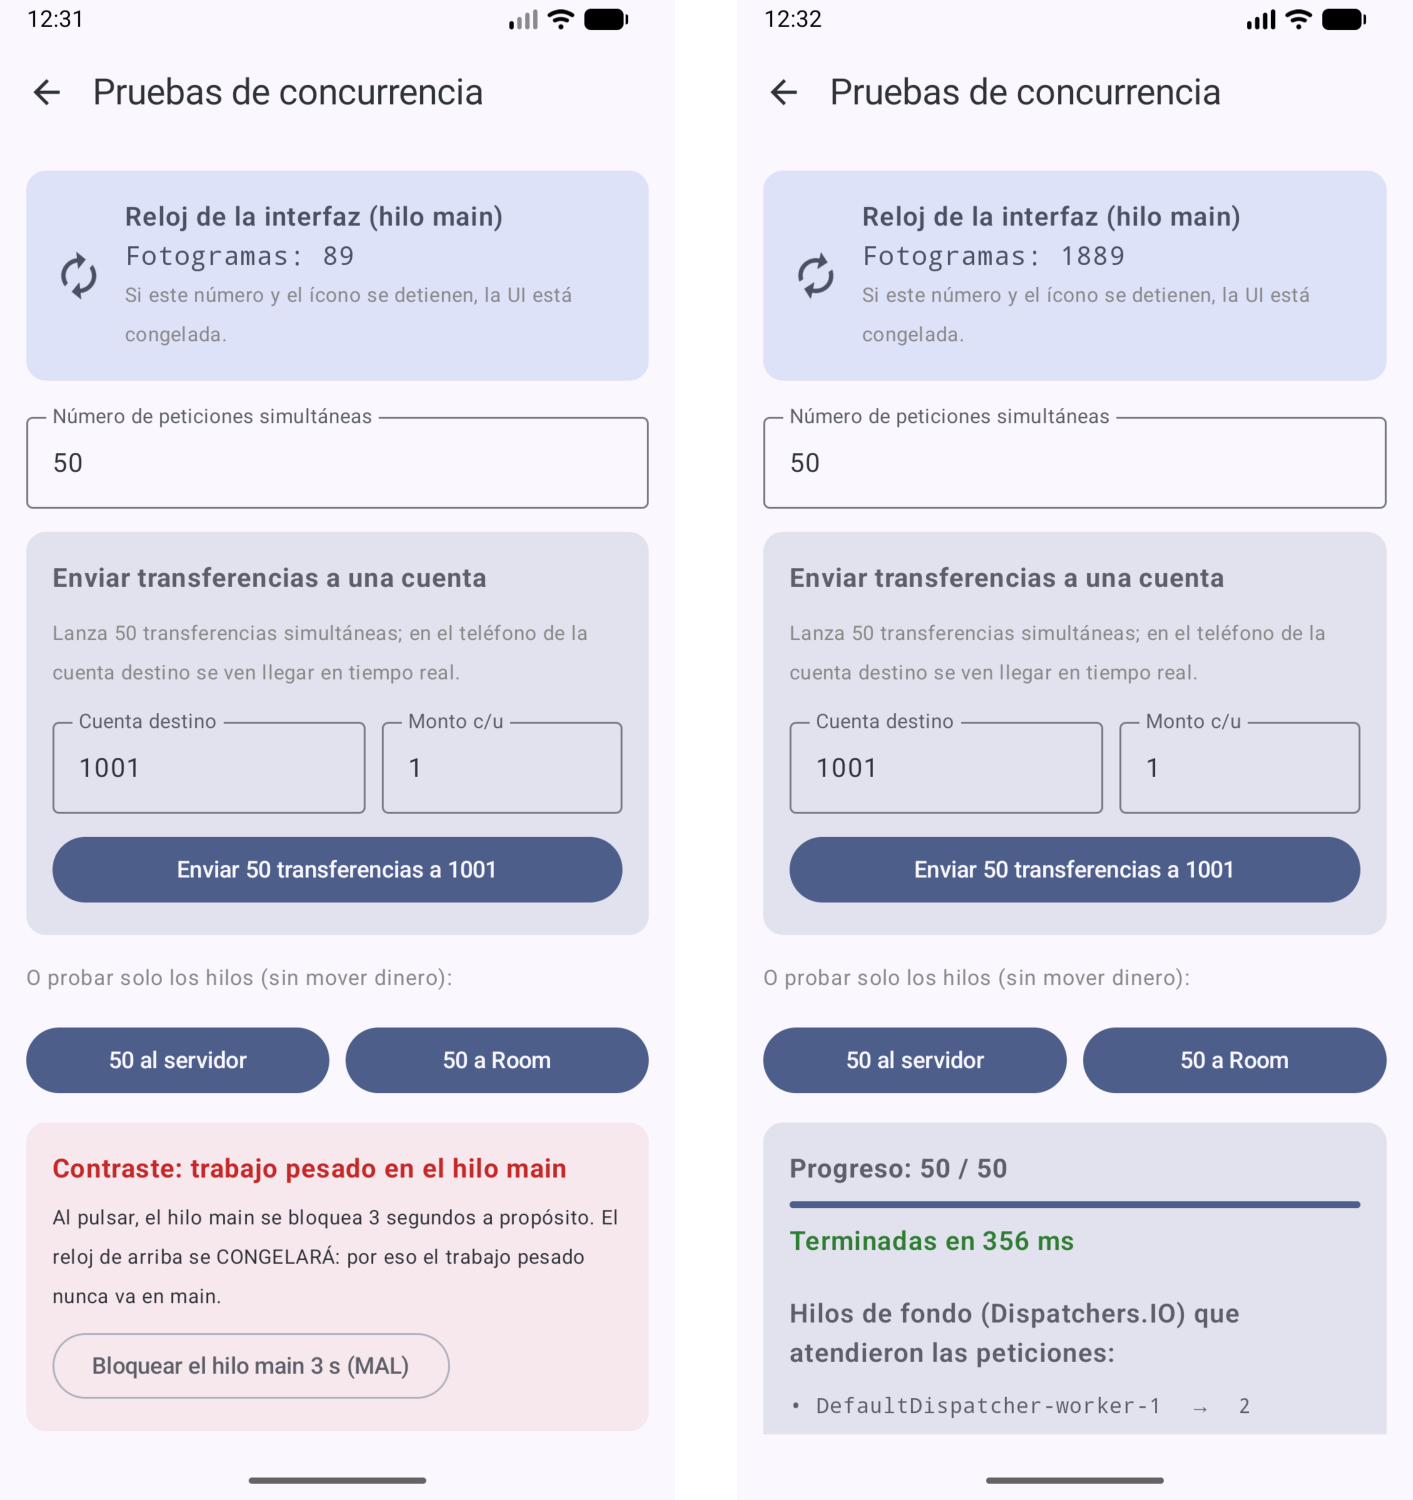
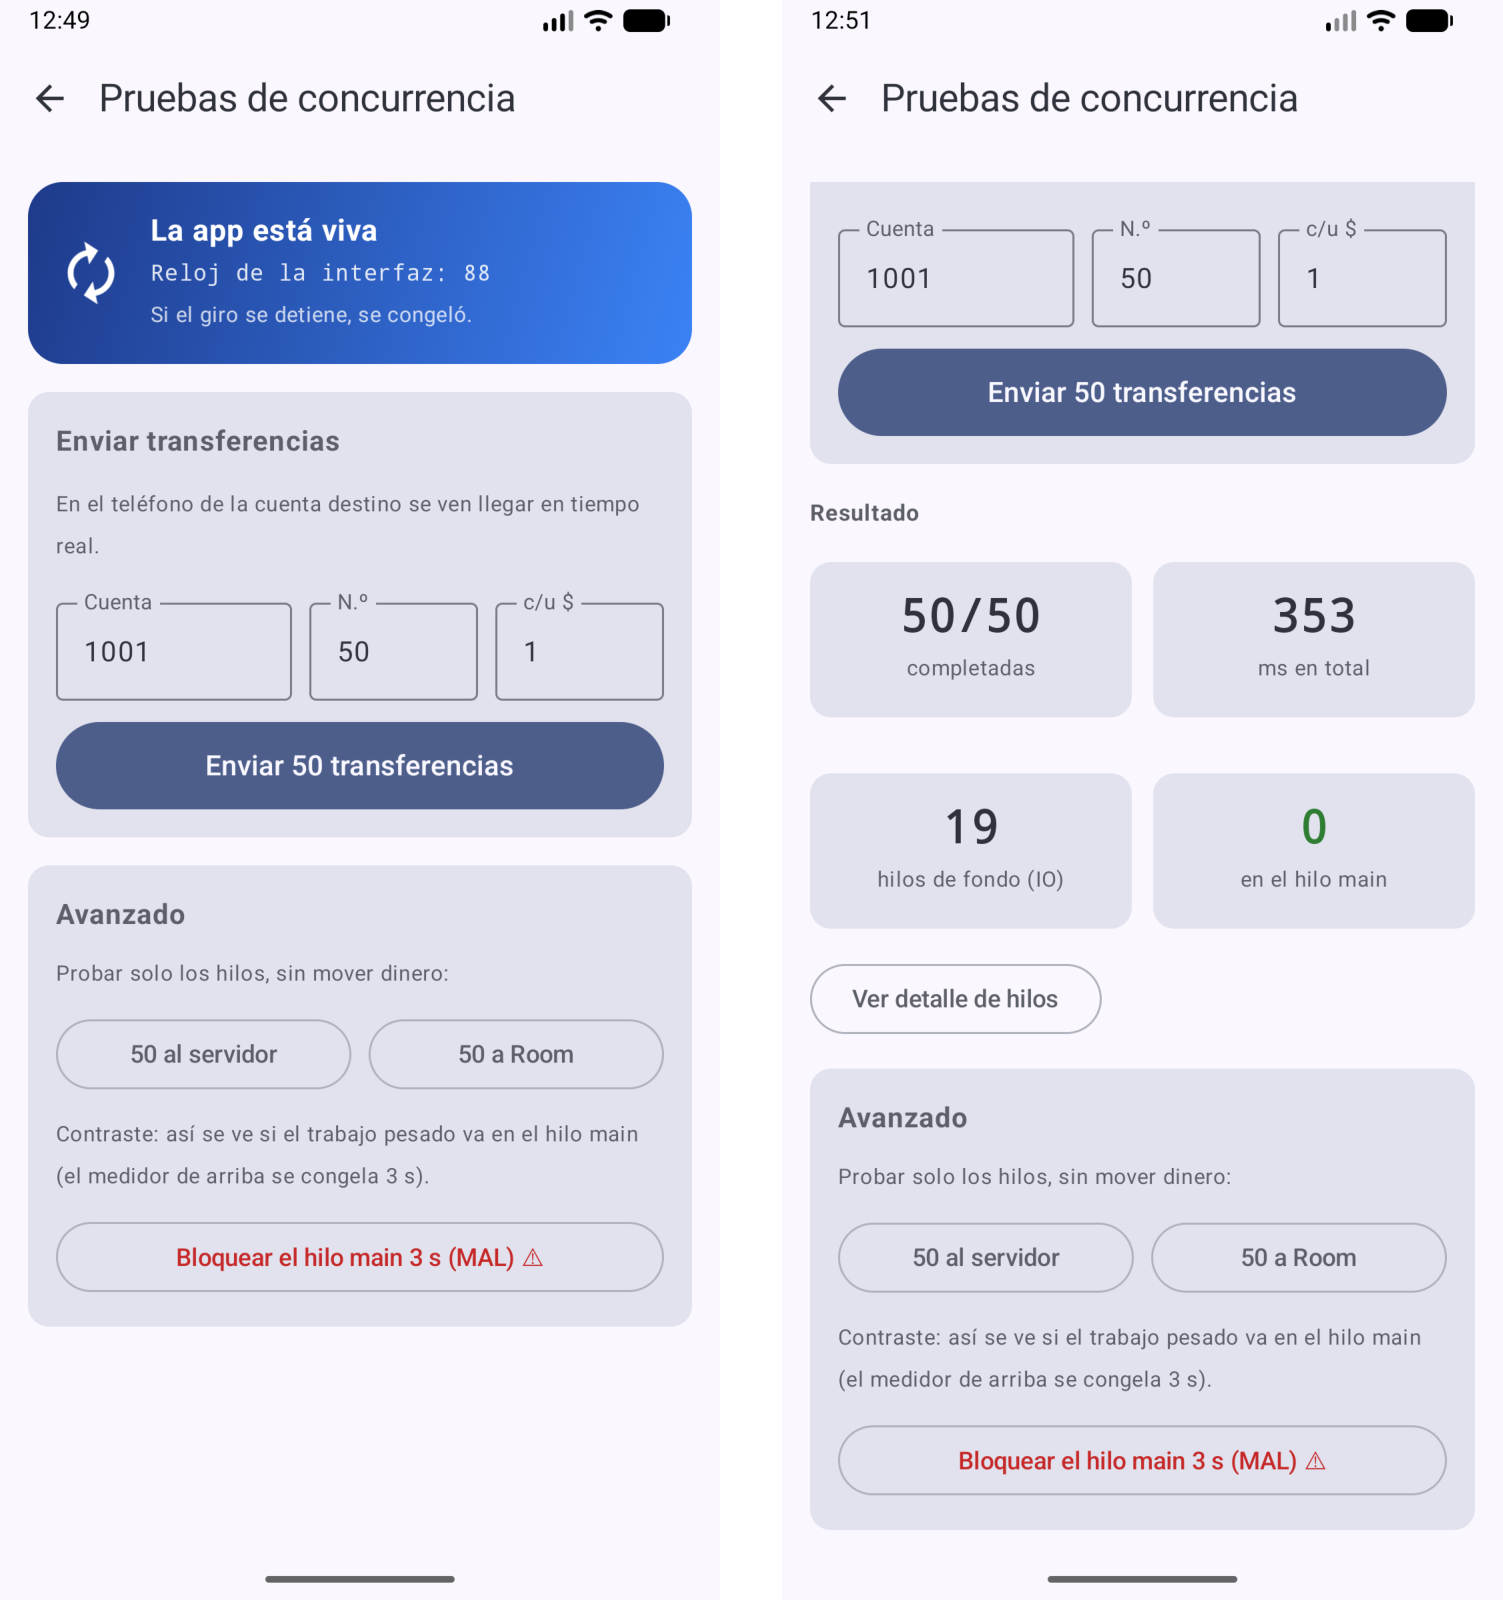
Fase 7: rediseno del panel de laboratorio (medidor + recuadros de resultado)
- Medidor 'La app esta viva' (icono girando + contador de fotogramas)
- Envio de transferencias con cuenta/N/monto y boton grande
- Resultado en 4 recuadros: completadas, ms, hilos IO, 0 en main
- Detalle de hilos plegable y seccion Avanzado (servidor/Room/bloquear main)

diff --git a/app/src/main/java/com/example/carriel_cuenca_billeteradistribuida/ui/pruebas/PruebasConcurrenciaScreen.kt b/app/src/main/java/com/example/carriel_cuenca_billeteradistribuida/ui/pruebas/PruebasConcurrenciaScreen.kt
@@ -7,6 +7,7 @@ import androidx.compose.animation.core.animateFloat
 import androidx.compose.animation.core.infiniteRepeatable
 import androidx.compose.animation.core.rememberInfiniteTransition
 import androidx.compose.animation.core.tween
+import androidx.compose.foundation.background
 import androidx.compose.foundation.layout.Arrangement
 import androidx.compose.foundation.layout.Column
 import androidx.compose.foundation.layout.Row
@@ -18,18 +19,18 @@ import androidx.compose.foundation.layout.padding
 import androidx.compose.foundation.layout.size
 import androidx.compose.foundation.layout.width
 import androidx.compose.foundation.rememberScrollState
+import androidx.compose.foundation.shape.RoundedCornerShape
 import androidx.compose.foundation.verticalScroll
 import androidx.compose.material.icons.Icons
 import androidx.compose.material.icons.automirrored.filled.ArrowBack
 import androidx.compose.material.icons.filled.Autorenew
 import androidx.compose.material3.Button
+import androidx.compose.material3.ButtonDefaults
 import androidx.compose.material3.Card
 import androidx.compose.material3.CardDefaults
-import androidx.compose.material3.CircularProgressIndicator
 import androidx.compose.material3.ExperimentalMaterial3Api
 import androidx.compose.material3.Icon
 import androidx.compose.material3.IconButton
-import androidx.compose.material3.LinearProgressIndicator
 import androidx.compose.material3.MaterialTheme
 import androidx.compose.material3.OutlinedButton
 import androidx.compose.material3.OutlinedTextField
@@ -45,7 +46,9 @@ import androidx.compose.runtime.remember
 import androidx.compose.runtime.setValue
 import androidx.compose.ui.Alignment
 import androidx.compose.ui.Modifier
+import androidx.compose.ui.draw.clip
 import androidx.compose.ui.draw.rotate
+import androidx.compose.ui.graphics.Brush
 import androidx.compose.ui.graphics.Color
 import androidx.compose.ui.text.font.FontFamily
 import androidx.compose.ui.text.font.FontWeight
@@ -54,10 +57,12 @@ import androidx.compose.ui.unit.sp
 import androidx.lifecycle.compose.collectAsStateWithLifecycle
 import com.example.carriel_cuenca_billeteradistribuida.model.TipoPrueba
 import com.example.carriel_cuenca_billeteradistribuida.ui.BilleteraViewModel
+import com.example.carriel_cuenca_billeteradistribuida.ui.theme.AzulTarjeta
+import com.example.carriel_cuenca_billeteradistribuida.ui.theme.AzulTarjetaClaro
 import com.example.carriel_cuenca_billeteradistribuida.ui.theme.RojoEgreso
 import com.example.carriel_cuenca_billeteradistribuida.ui.theme.VerdeIngreso
 
-// PANTALLA DE PRUEBAS DE CONCURRENCIA: demuestra en vivo el manejo de hilos.
+// PANEL DE PRUEBAS DE CONCURRENCIA (diseño B: medidor arriba + resultado en recuadros).
 // Comparte el MISMO BilleteraViewModel que el dashboard (misma cuenta y repositorio).
 @OptIn(ExperimentalMaterial3Api::class)
 @Composable
@@ -67,24 +72,20 @@ fun PruebasConcurrenciaScreen(
     onActividad: () -> Unit
 ) {
     val pruebas by viewModel.pruebas.collectAsStateWithLifecycle()
-    // Campo de texto con el número de peticiones (por defecto 50).
     var numero by remember { mutableStateOf("50") }
     val n = numero.toIntOrNull() ?: 0
-    // Para la demo de dos pantallas: a qué cuenta se transfiere y cuánto.
     var destino by remember { mutableStateOf("1001") }
     var montoTransf by remember { mutableStateOf("1") }
-    val montoValido = montoTransf.replace(',', '.').toDoubleOrNull() ?: 0.0
+    val monto = montoTransf.replace(',', '.').toDoubleOrNull() ?: 0.0
 
-    // RELOJ DE UI: se incrementa en CADA fotograma (~60 por segundo) en el hilo main.
-    // Si el hilo main se bloquea, este número se CONGELA: es la prueba visual de "cero ANR".
+    // RELOJ DE UI: sube en cada fotograma (~60/s) en el hilo main. Si el main se bloquea, se congela.
     var tic by remember { mutableIntStateOf(0) }
     LaunchedEffect(Unit) {
         while (true) {
-            androidx.compose.runtime.withFrameMillis { }   // Espera al siguiente fotograma (no bloquea).
+            androidx.compose.runtime.withFrameMillis { }
             tic++
         }
     }
-    // Ícono que gira sin parar; también se congela si el hilo main se bloquea.
     val transicion = rememberInfiniteTransition(label = "giro")
     val angulo by transicion.animateFloat(
         initialValue = 0f, targetValue = 360f,
@@ -108,128 +109,145 @@ fun PruebasConcurrenciaScreen(
                 .padding(innerPadding)
                 .padding(16.dp)
                 .verticalScroll(rememberScrollState()),
-            verticalArrangement = Arrangement.spacedBy(14.dp)
+            verticalArrangement = Arrangement.spacedBy(16.dp)
         ) {
-            // ---------- RELOJ DE UI (latido) ----------
-            Card(colors = CardDefaults.cardColors(containerColor = MaterialTheme.colorScheme.secondaryContainer)) {
-                Row(
-                    modifier = Modifier.padding(16.dp).fillMaxWidth(),
-                    verticalAlignment = Alignment.CenterVertically
-                ) {
-                    Icon(Icons.Filled.Autorenew, contentDescription = null, modifier = Modifier.size(32.dp).rotate(angulo))
-                    Spacer(Modifier.width(12.dp))
-                    Column {
-                        Text("Reloj de la interfaz (hilo main)", fontWeight = FontWeight.SemiBold)
-                        Text("Fotogramas: $tic", fontFamily = FontFamily.Monospace)
-                        Text("Si este número y el ícono se detienen, la UI está congelada.", fontSize = 12.sp, color = Color.Gray)
-                    }
+
+            // ---------- MEDIDOR "LA APP ESTÁ VIVA" ----------
+            Row(
+                modifier = Modifier
+                    .fillMaxWidth()
+                    .clip(RoundedCornerShape(20.dp))
+                    .background(Brush.linearGradient(listOf(AzulTarjeta, AzulTarjetaClaro)))
+                    .padding(16.dp),
+                verticalAlignment = Alignment.CenterVertically
+            ) {
+                // Ícono que gira: si se detiene, la UI está congelada.
+                Icon(
+                    Icons.Filled.Autorenew, contentDescription = null, tint = Color.White,
+                    modifier = Modifier.size(40.dp).rotate(angulo)
+                )
+                Spacer(Modifier.width(14.dp))
+                Column {
+                    Text("La app está viva", color = Color.White, fontWeight = FontWeight.Bold, fontSize = 17.sp)
+                    Text("Reloj de la interfaz: $tic", color = Color.White.copy(alpha = 0.85f),
+                        fontFamily = FontFamily.Monospace, fontSize = 13.sp)
+                    Text("Si el giro se detiene, se congeló.", color = Color.White.copy(alpha = 0.75f), fontSize = 12.sp)
                 }
             }
 
-            // ---------- CONTROL ----------
-            OutlinedTextField(
-                value = numero,
-                onValueChange = { numero = it.filter { c -> c.isDigit() }.take(3); onActividad() },
-                label = { Text("Número de peticiones simultáneas") },
-                singleLine = true,
-                modifier = Modifier.fillMaxWidth()
-            )
-
-            // ---------- DEMO DE DOS PANTALLAS: enviar N transferencias a una cuenta ----------
+            // ---------- ENVIAR TRANSFERENCIAS (demo de dos pantallas) ----------
             Card {
-                Column(modifier = Modifier.padding(16.dp), verticalArrangement = Arrangement.spacedBy(10.dp)) {
-                    Text("Enviar transferencias a una cuenta", fontWeight = FontWeight.Bold)
-                    Text("Lanza $n transferencias simultáneas; en el teléfono de la cuenta destino se ven llegar en tiempo real.", fontSize = 12.sp, color = Color.Gray)
+                Column(modifier = Modifier.padding(16.dp), verticalArrangement = Arrangement.spacedBy(12.dp)) {
+                    Text("Enviar transferencias", fontWeight = FontWeight.Bold, fontSize = 16.sp)
+                    Text("En el teléfono de la cuenta destino se ven llegar en tiempo real.", fontSize = 12.sp, color = MaterialTheme.colorScheme.onSurfaceVariant)
                     Row(horizontalArrangement = Arrangement.spacedBy(10.dp)) {
                         OutlinedTextField(
                             value = destino,
                             onValueChange = { destino = it.filter { c -> c.isDigit() }.take(10); onActividad() },
-                            label = { Text("Cuenta destino") },
+                            label = { Text("Cuenta") },
                             singleLine = true,
-                            modifier = Modifier.weight(1.3f)
+                            modifier = Modifier.weight(1.4f)
+                        )
+                        OutlinedTextField(
+                            value = numero,
+                            onValueChange = { numero = it.filter { c -> c.isDigit() }.take(3); onActividad() },
+                            label = { Text("N.º") },
+                            singleLine = true,
+                            modifier = Modifier.weight(1f)
                         )
                         OutlinedTextField(
                             value = montoTransf,
                             onValueChange = { montoTransf = it; onActividad() },
-                            label = { Text("Monto c/u") },
+                            label = { Text("c/u $") },
                             singleLine = true,
                             modifier = Modifier.weight(1f)
                         )
                     }
                     Button(
-                        onClick = { onActividad(); viewModel.lanzarTransferencias(n, destino, montoValido) },
-                        enabled = n in 1..200 && destino.length >= 4 && montoValido > 0 && !pruebas.ejecutando,
-                        modifier = Modifier.fillMaxWidth()
-                    ) { Text("Enviar $n transferencias a $destino") }
+                        onClick = { onActividad(); viewModel.lanzarTransferencias(n, destino, monto) },
+                        enabled = n in 1..200 && destino.length >= 4 && monto > 0 && !pruebas.ejecutando,
+                        modifier = Modifier.fillMaxWidth().height(50.dp)
+                    ) { Text("Enviar $n transferencias", fontSize = 16.sp) }
                 }
             }
 
-            // ---------- PRUEBAS DE HILOS PUROS (sin mover dinero) ----------
-            Text("O probar solo los hilos (sin mover dinero):", fontSize = 13.sp, color = Color.Gray)
-            Row(horizontalArrangement = Arrangement.spacedBy(10.dp)) {
-                Button(
-                    onClick = { onActividad(); viewModel.lanzarConcurrentes(n, TipoPrueba.SERVIDOR) },
-                    enabled = n in 1..200 && !pruebas.ejecutando,
-                    modifier = Modifier.weight(1f)
-                ) { Text("$n al servidor") }
-                Button(
-                    onClick = { onActividad(); viewModel.lanzarConcurrentes(n, TipoPrueba.ROOM) },
-                    enabled = n in 1..200 && !pruebas.ejecutando,
-                    modifier = Modifier.weight(1f)
-                ) { Text("$n a Room") }
-            }
-
-            // ---------- RESULTADOS ----------
+            // ---------- RESULTADO EN RECUADROS ----------
             if (pruebas.total > 0) {
-                Card {
-                    Column(modifier = Modifier.padding(16.dp), verticalArrangement = Arrangement.spacedBy(8.dp)) {
-                        Row(verticalAlignment = Alignment.CenterVertically) {
-                            Text("Progreso: ${pruebas.completadas} / ${pruebas.total}", fontWeight = FontWeight.Bold)
-                            if (pruebas.ejecutando) {
-                                Spacer(Modifier.width(10.dp))
-                                CircularProgressIndicator(modifier = Modifier.size(18.dp), strokeWidth = 2.dp)
+                Text("Resultado", fontWeight = FontWeight.Bold, fontSize = 13.sp,
+                    color = MaterialTheme.colorScheme.onSurfaceVariant)
+                Row(horizontalArrangement = Arrangement.spacedBy(12.dp)) {
+                    Recuadro("${pruebas.completadas}/${pruebas.total}", "completadas", Modifier.weight(1f))
+                    Recuadro(if (pruebas.ejecutando) "…" else "${pruebas.tiempoMs}", "ms en total", Modifier.weight(1f))
+                }
+                Spacer(Modifier.height(0.dp))
+                Row(horizontalArrangement = Arrangement.spacedBy(12.dp)) {
+                    Recuadro("${pruebas.hilos.size}", "hilos de fondo (IO)", Modifier.weight(1f))
+                    Recuadro("0", "en el hilo main", Modifier.weight(1f), valorColor = VerdeIngreso)
+                }
+                if (pruebas.fallidas > 0) {
+                    Text("Fallidas: ${pruebas.fallidas}", color = RojoEgreso, fontWeight = FontWeight.SemiBold)
+                }
+                // Detalle de hilos (plegable), para la evidencia.
+                var verDetalle by remember { mutableStateOf(false) }
+                OutlinedButton(onClick = { verDetalle = !verDetalle }) {
+                    Text(if (verDetalle) "Ocultar detalle de hilos" else "Ver detalle de hilos")
+                }
+                if (verDetalle) {
+                    Card(colors = CardDefaults.cardColors(containerColor = MaterialTheme.colorScheme.surfaceVariant)) {
+                        Column(modifier = Modifier.padding(12.dp)) {
+                            pruebas.hilos.forEach { (hilo, veces) ->
+                                Text("• $hilo → $veces", fontFamily = FontFamily.Monospace, fontSize = 12.sp)
+                            }
+                            if (pruebas.hiloRespuesta.isNotEmpty()) {
+                                Text("Respuestas en el hilo: ${pruebas.hiloRespuesta}", fontFamily = FontFamily.Monospace, fontSize = 12.sp)
                             }
                         }
-                        LinearProgressIndicator(
-                            progress = { if (pruebas.total == 0) 0f else pruebas.completadas.toFloat() / pruebas.total },
-                            modifier = Modifier.fillMaxWidth()
-                        )
-                        if (!pruebas.ejecutando) {
-                            Text("Terminadas en ${pruebas.tiempoMs} ms", color = VerdeIngreso, fontWeight = FontWeight.SemiBold)
-                        }
-                        if (pruebas.fallidas > 0) {
-                            Text("Fallidas: ${pruebas.fallidas}", color = RojoEgreso, fontWeight = FontWeight.SemiBold)
-                        }
-                        Spacer(Modifier.height(4.dp))
-                        Text("Hilos de fondo (Dispatchers.IO) que atendieron las peticiones:", fontWeight = FontWeight.SemiBold)
-                        // Lista de hilos IO y cuántas peticiones atendió cada uno.
-                        pruebas.hilos.forEach { (hilo, veces) ->
-                            Text("• $hilo  →  $veces", fontFamily = FontFamily.Monospace, fontSize = 13.sp)
-                        }
-                        Text("Total de hilos IO distintos: ${pruebas.hilos.size}", color = MaterialTheme.colorScheme.primary)
-                        if (pruebas.hiloRespuesta.isNotEmpty()) {
-                            Text("Respuestas procesadas en el hilo: ${pruebas.hiloRespuesta}", fontFamily = FontFamily.Monospace, fontSize = 13.sp)
-                        }
-                        Text("Operaciones de red/BD en el hilo main: 0", color = VerdeIngreso, fontWeight = FontWeight.SemiBold)
                     }
                 }
             }
 
-            // ---------- CONTRASTE: lo que NO se debe hacer ----------
-            Card(colors = CardDefaults.cardColors(containerColor = RojoEgreso.copy(alpha = 0.08f))) {
-                Column(modifier = Modifier.padding(16.dp), verticalArrangement = Arrangement.spacedBy(6.dp)) {
-                    Text("Contraste: trabajo pesado en el hilo main", fontWeight = FontWeight.Bold, color = RojoEgreso)
-                    Text("Al pulsar, el hilo main se bloquea 3 segundos a propósito. El reloj de arriba se CONGELARÁ: por eso el trabajo pesado nunca va en main.", fontSize = 12.sp)
-                    OutlinedButton(onClick = { viewModel.bloquearMainAPosta(3) }) {
-                        Text("Bloquear el hilo main 3 s (MAL)")
+            // ---------- AVANZADO: hilos puros y contraste ----------
+            Card(colors = CardDefaults.cardColors(containerColor = MaterialTheme.colorScheme.surfaceVariant)) {
+                Column(modifier = Modifier.padding(16.dp), verticalArrangement = Arrangement.spacedBy(10.dp)) {
+                    Text("Avanzado", fontWeight = FontWeight.Bold)
+                    Text("Probar solo los hilos, sin mover dinero:", fontSize = 12.sp, color = MaterialTheme.colorScheme.onSurfaceVariant)
+                    Row(horizontalArrangement = Arrangement.spacedBy(10.dp)) {
+                        OutlinedButton(
+                            onClick = { onActividad(); viewModel.lanzarConcurrentes(n, TipoPrueba.SERVIDOR) },
+                            enabled = n in 1..200 && !pruebas.ejecutando,
+                            modifier = Modifier.weight(1f)
+                        ) { Text("$n al servidor") }
+                        OutlinedButton(
+                            onClick = { onActividad(); viewModel.lanzarConcurrentes(n, TipoPrueba.ROOM) },
+                            enabled = n in 1..200 && !pruebas.ejecutando,
+                            modifier = Modifier.weight(1f)
+                        ) { Text("$n a Room") }
                     }
+                    Text("Contraste: así se ve si el trabajo pesado va en el hilo main (el medidor de arriba se congela 3 s).",
+                        fontSize = 12.sp, color = MaterialTheme.colorScheme.onSurfaceVariant)
+                    OutlinedButton(
+                        onClick = { viewModel.bloquearMainAPosta(3) },
+                        colors = ButtonDefaults.outlinedButtonColors(contentColor = RojoEgreso),
+                        modifier = Modifier.fillMaxWidth()
+                    ) { Text("Bloquear el hilo main 3 s (MAL) ⚠") }
                 }
             }
+        }
+    }
+}
 
-            Text(
-                "Mientras lanzas peticiones, observa que el reloj de arriba NO se detiene: la red y la base de datos corren en Dispatchers.IO y el hilo main queda libre para la interfaz.",
-                fontSize = 12.sp, color = Color.Gray
-            )
+// Un recuadro grande con un número y su etiqueta (los 4 resultados).
+@Composable
+private fun Recuadro(valor: String, etiqueta: String, modifier: Modifier = Modifier, valorColor: Color? = null) {
+    Card(modifier = modifier) {
+        Column(
+            modifier = Modifier.fillMaxWidth().padding(vertical = 16.dp, horizontal = 8.dp),
+            horizontalAlignment = Alignment.CenterHorizontally,
+            verticalArrangement = Arrangement.spacedBy(2.dp)
+        ) {
+            Text(valor, fontSize = 26.sp, fontWeight = FontWeight.ExtraBold, fontFamily = FontFamily.Monospace,
+                color = valorColor ?: MaterialTheme.colorScheme.onSurface)
+            Text(etiqueta, fontSize = 12.sp, color = MaterialTheme.colorScheme.onSurfaceVariant)
         }
     }
 }
